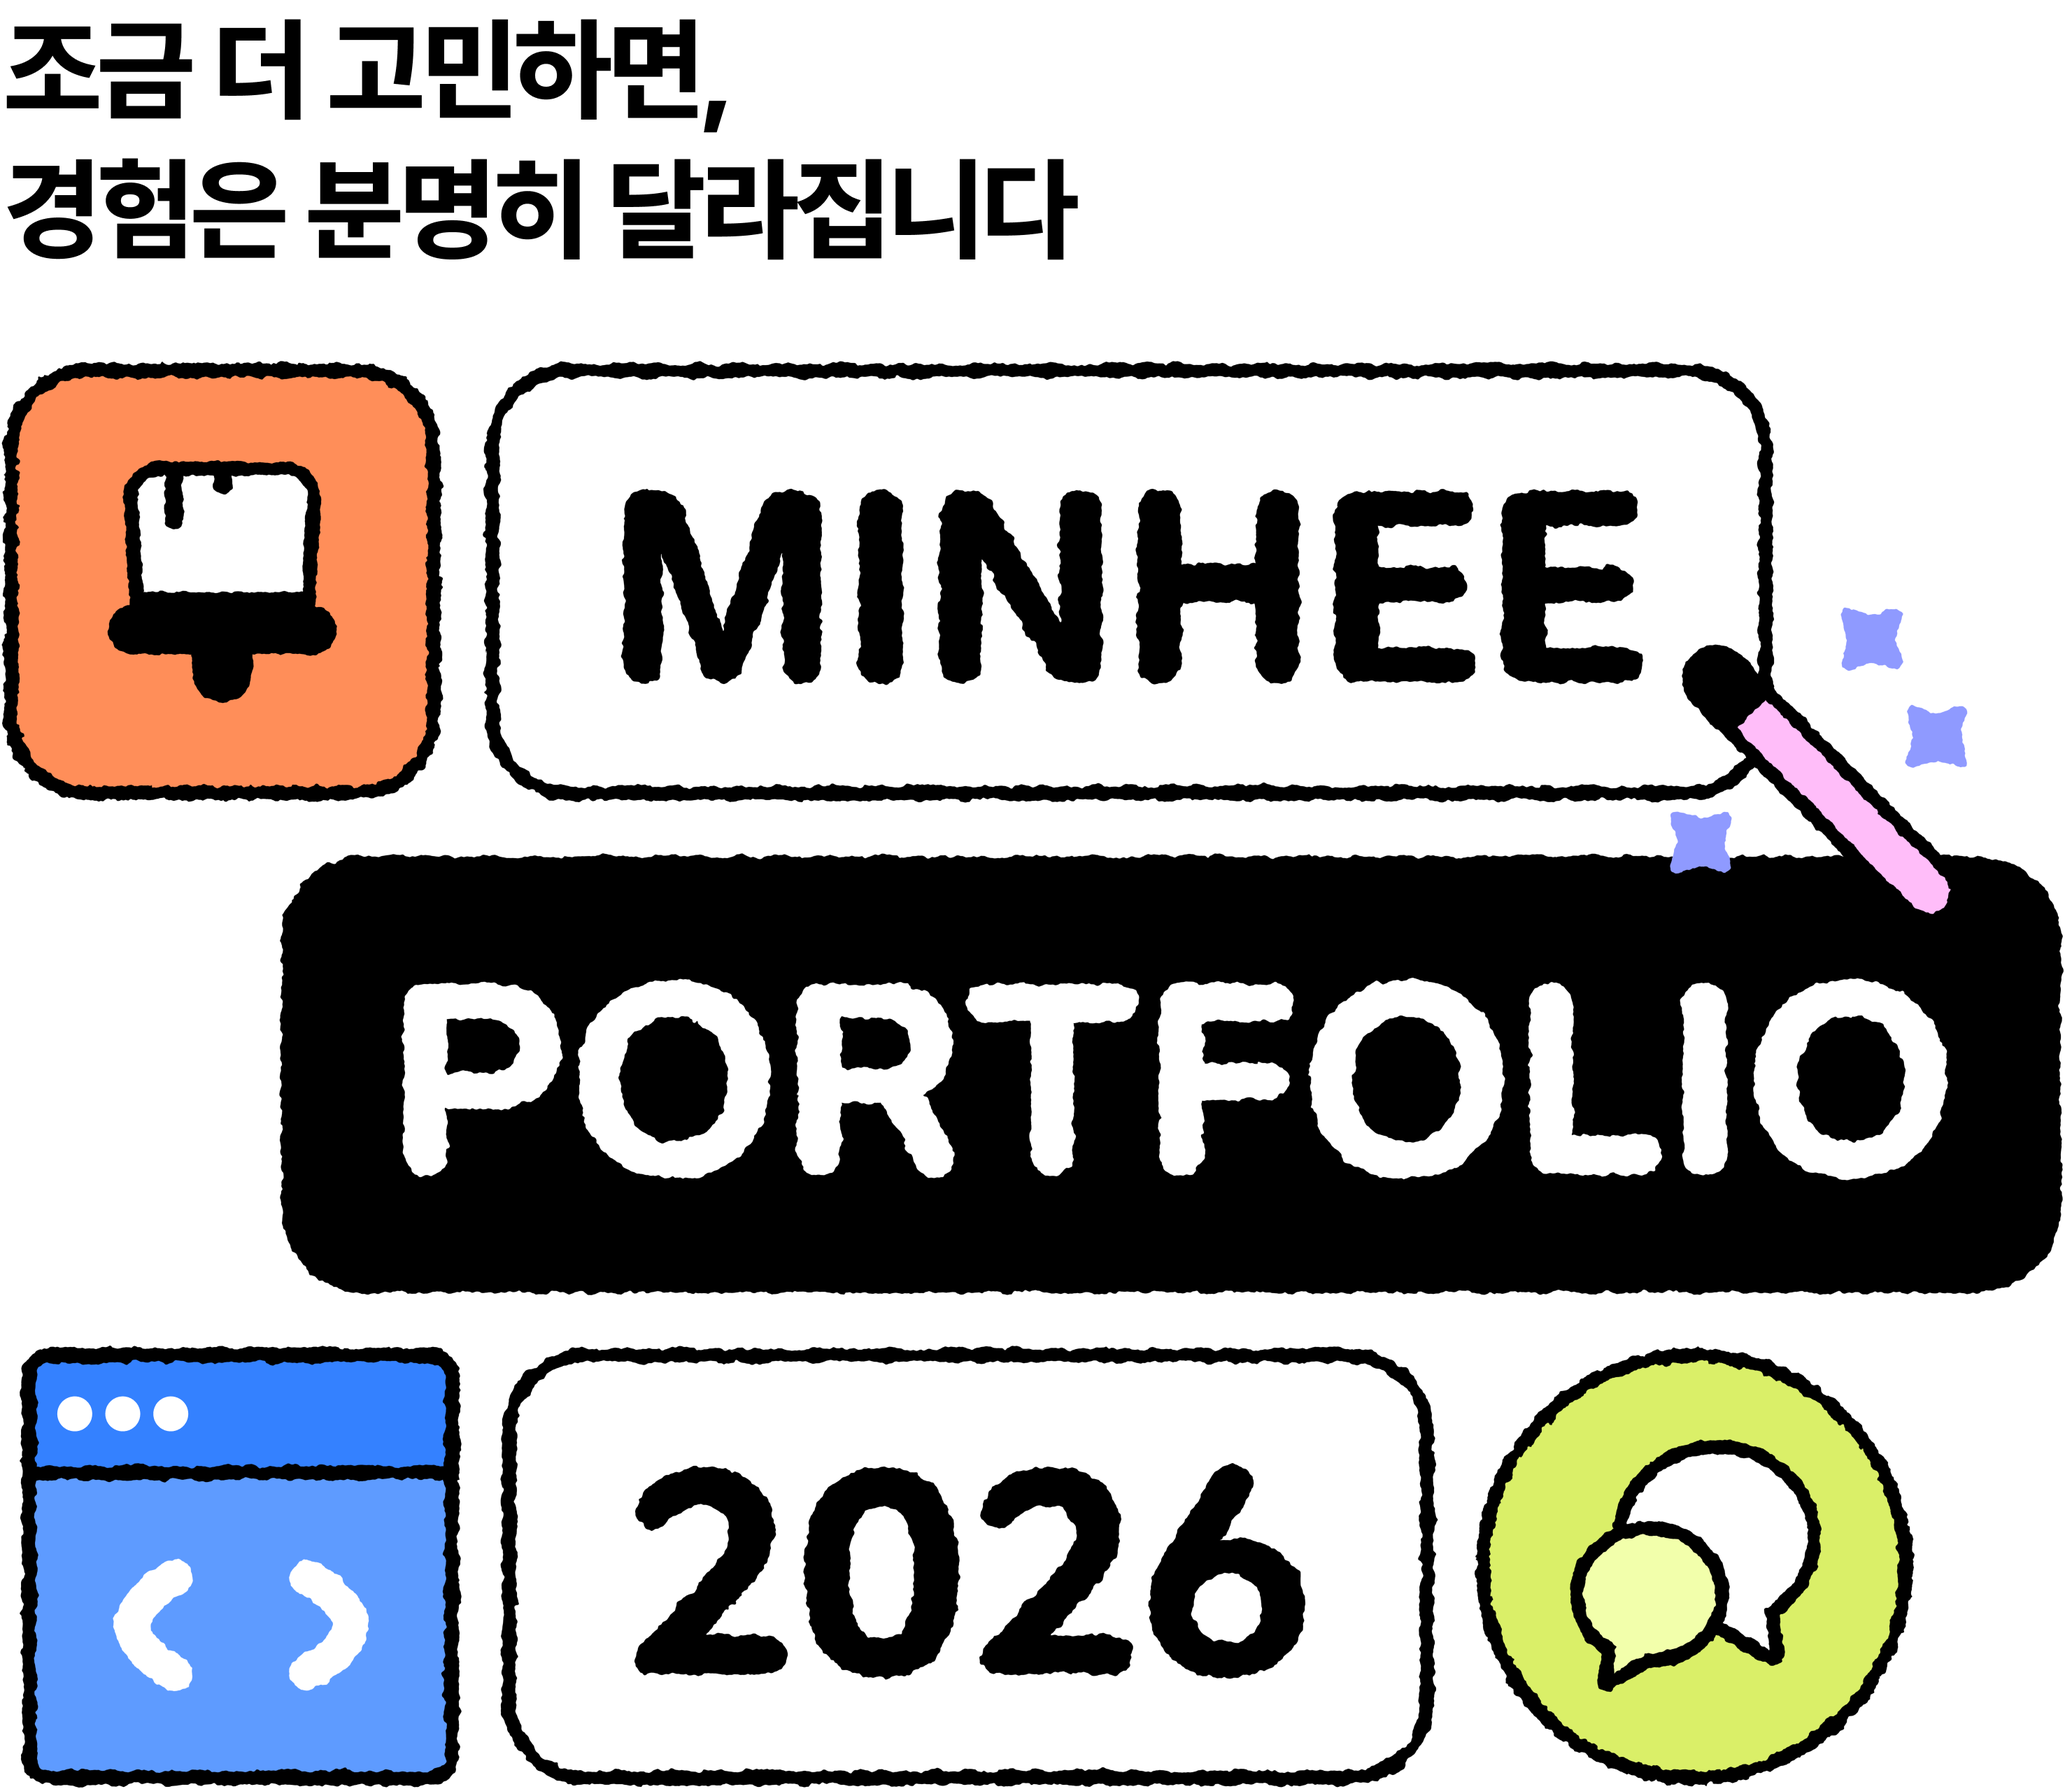
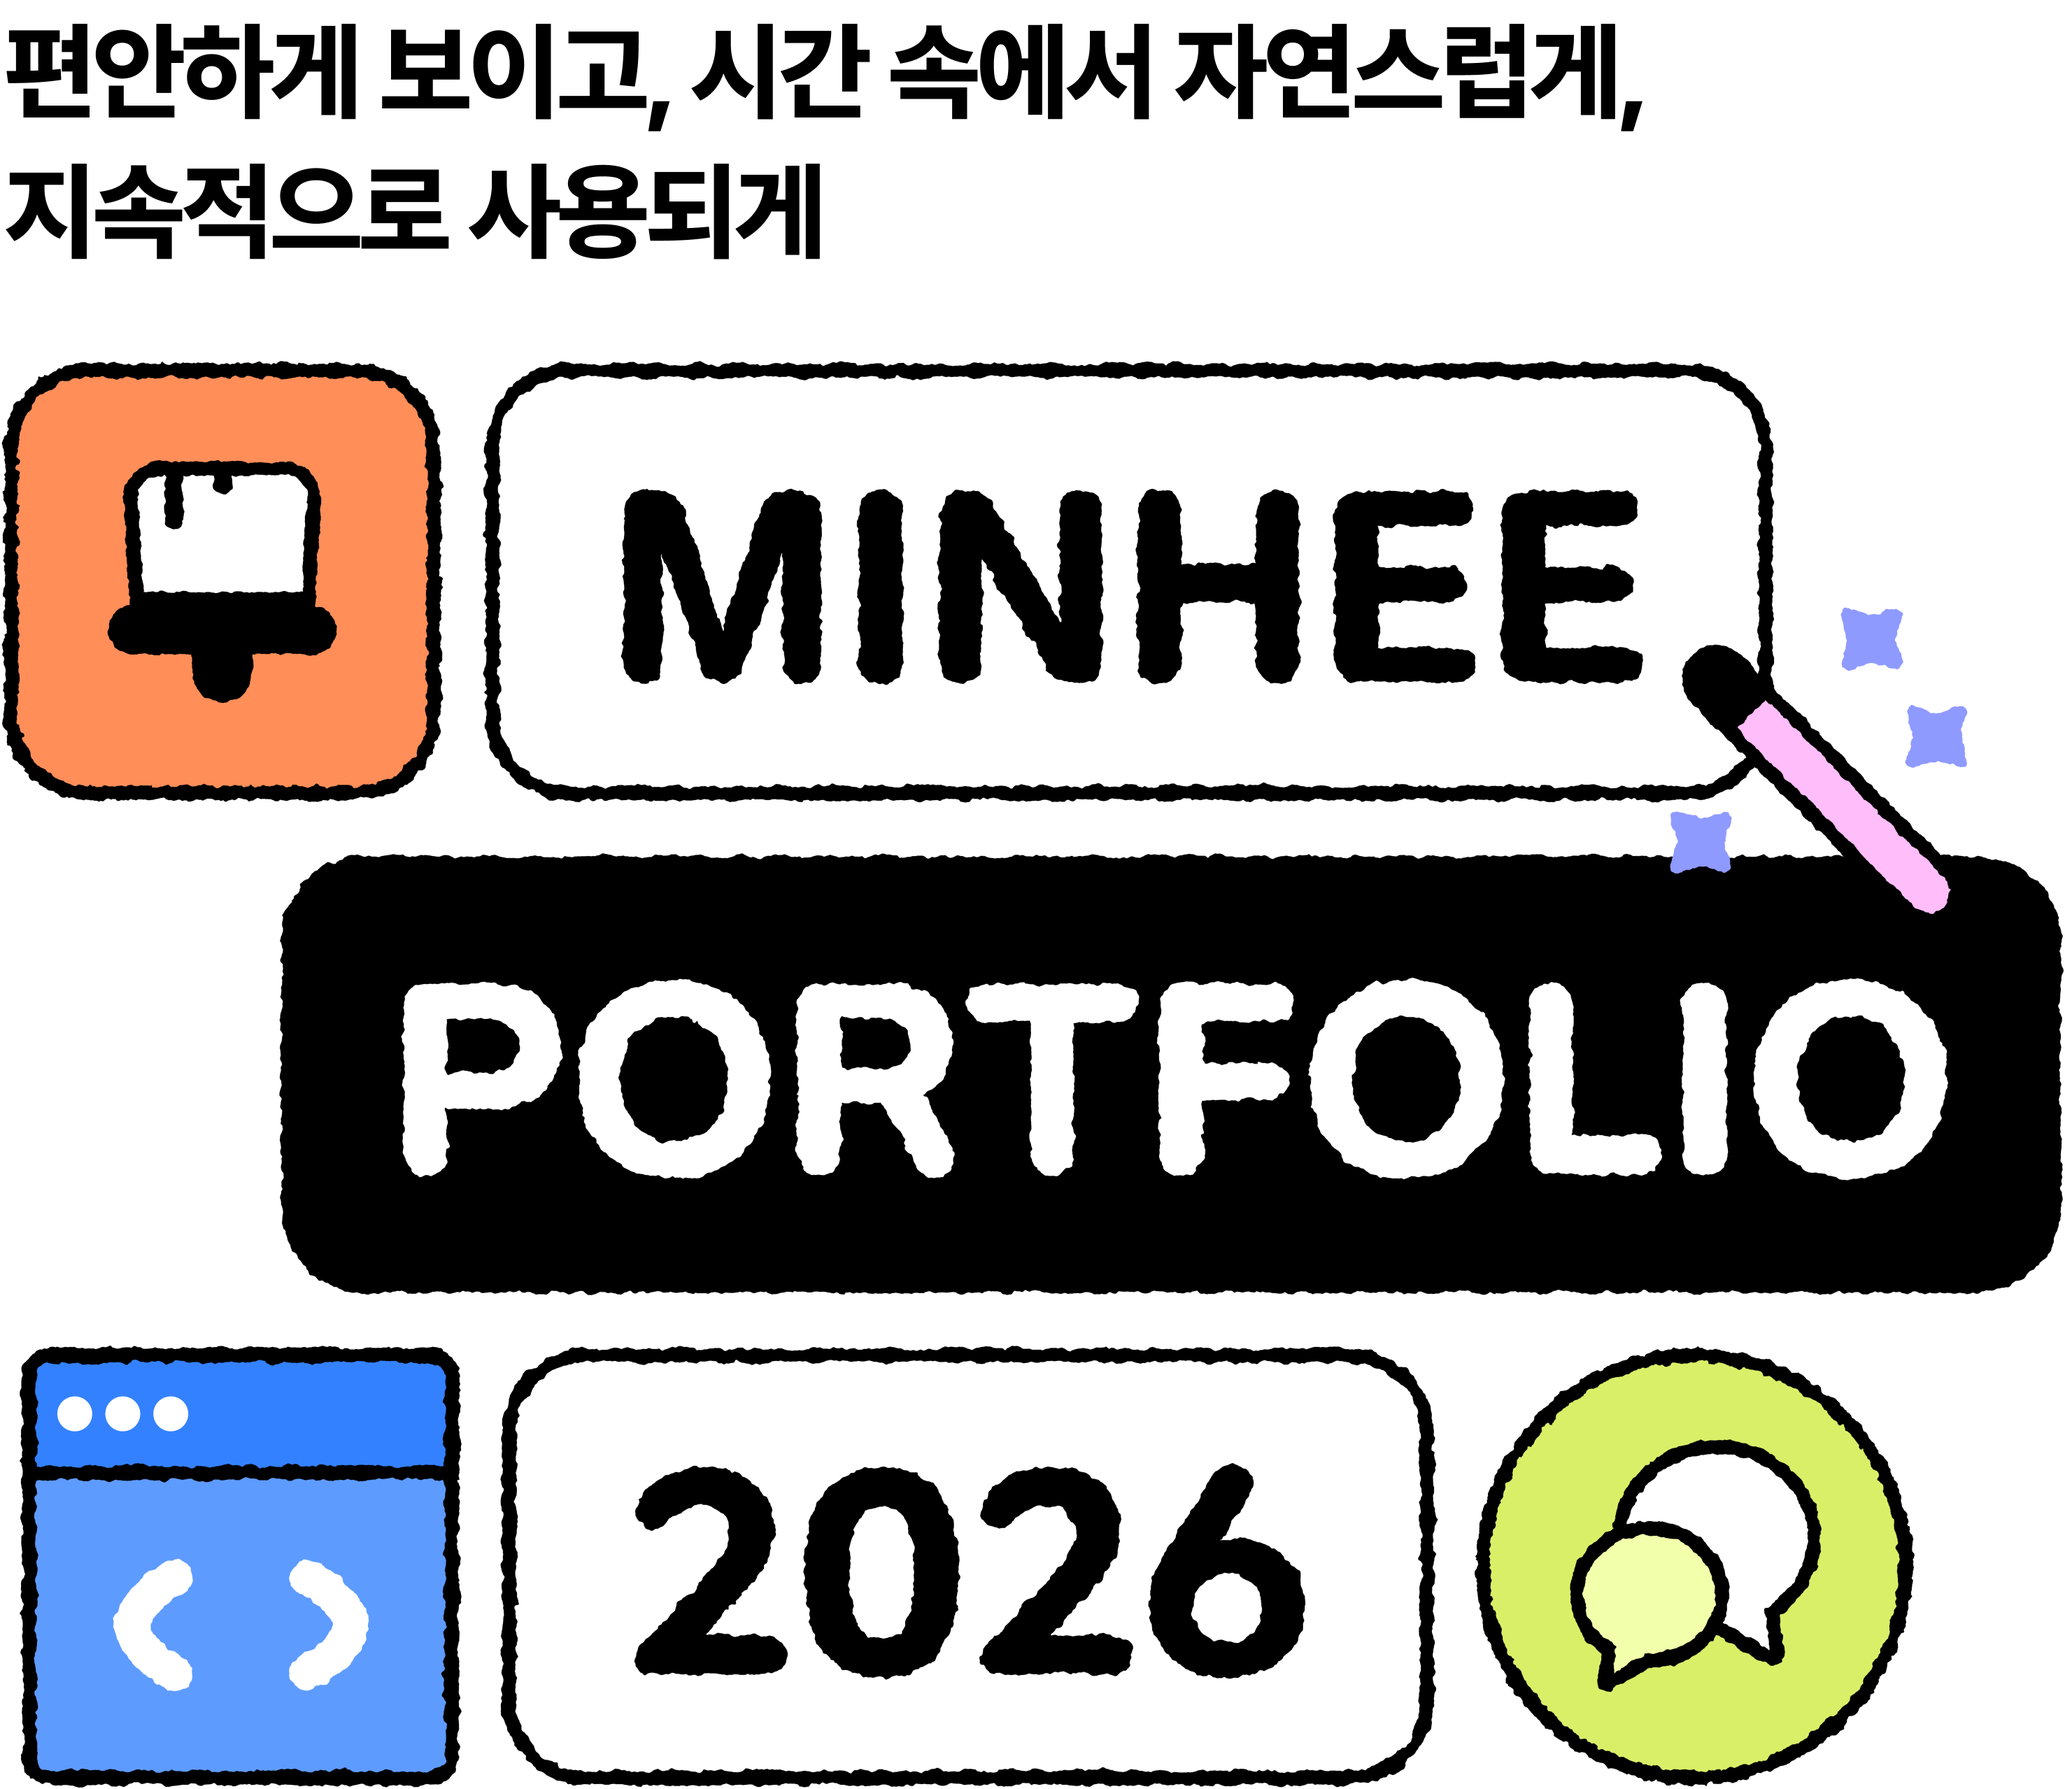
feat: About 섹션 텍스트·행간 수정, 키드키즈 안전교육 상세 추가
- about__intro-title, about__text 내용 변경
- about__text, EXPERIENCE/EDUCATION 행간 조정
- EXPERIENCE 담당 업무 내용 수정
- 키드키즈 안전교육 상세 페이지 추가 (히어로, 설명, 사이트 링크)

Made-with: Cursor

Changed region(s): [[0.0, 0.0, 0.8103, 0.1544]]

diff --git a/index.html b/index.html
@@ -363,17 +363,13 @@
             </h3>
             <div class="about__intro">
               <h4 class="about__intro-title">
-                기획 의도를 충분히 이해하고,<br />사용자 관점에서 의미 있는
-                포인트를 발견해 <br class="about__text-br" />디자인에
-                담아냅니다.
+                서비스 안에서 자연스럽게 자리 잡는 화면을 만듭니다
               </h4>
               <p class="about__text">
-                기획 의도를 이해한 뒤, 사용자 관점에서 다시 한 번 점검하며
-                작업해왔습니다.<br />
-                무엇이 먼저 보이고 어디에서 잠시 멈출지를 살피며, 구조 안에서
-                조금 더 편안해질 수 있는 요소를 더해왔습니다.<br />
-                앞으로도 구조와 표현의 균형 속에서, 편안하지만 분명하게 전달되는
-                디자인을 하고자 합니다.
+                서비스는 시간이 지나며 기능과 콘텐츠가 계속 쌓이기 때문에 처음부터 안정적인 구조를 갖춘 화면이 중요하다고 생각합니다.<br />
+                교육 플랫폼과 콘텐츠 서비스 프로젝트에서 디자인과 퍼블리싱을 함께 진행하며 실제 운영되는 서비스 화면을 구현해왔습니다.<br />
+                콘텐츠가 확장되어도 무리 없이 작동하고 시간이 지나도 자연스럽게 사용되는 인터페이스를 고민합니다.<br />
+                콘텐츠 흐름과 정보 구조를 정리하는 동시에, 시각적으로도 편안하게 느껴지는 화면을 만드는 것을 중요하게 생각합니다.
               </p>
             </div>
             <a href="#" class="about__resume-btn">
@@ -395,8 +391,8 @@
                     <strong>EK 주식회사 IT부서 디자인팀</strong></span
                   ><br />
                   <span class="about__experience-desc"
-                    >· 서비스 UI/UX 디자인 및 퍼블리싱 전반 담당<br />
-                    · 기획 의도에 맞춘 화면 구조 설계 및 인터랙션 구현</span
+                    >· 서비스 UI 디자인 및 퍼블리싱 담당<br />
+                    · 화면 구조 설계 및 인터페이스 구현</span
                   >
                 </p>
               </div>

diff --git a/js/projects-data.js b/js/projects-data.js
@@ -159,6 +159,19 @@ const PROJECTS_DATA = [
     categoryLabel: "UI · Publishing",
     name: "키드키즈 안전교육<br />페이지 UI/UX 리뉴얼",
     tags: "웹사이트, UI/UX, 반응형, 교육",
+    detail: {
+      heroBg: "images/projects/kidkids-safety-education/hero.png",
+      title: "키드키즈 안전교육 페이지 UI/UX 리뉴얼",
+      position: "UI 디자인 · 퍼블리싱",
+      contribution: "UI 디자인 100% · 퍼블리싱 100%",
+      tool: "Figma · Vue · Tailwind CSS · Cursor AI",
+      date: "2026 (1주 소요)",
+      description:
+        "<p><strong>유아 교육 플랫폼 키드키즈 안전교육 서비스의 UI 구조를 재설계한 리뉴얼 프로젝트입니다.</strong></p>" +
+        "<p>기존에 콘텐츠, 연간 교육 계획, 개인 관리 기능이 혼합되어 있던 구조를 사용 목적 기준으로 재정리하여 탐색 흐름을 개선했습니다.</p>" +
+        "<p>콘텐츠 카드와 영역별 분류 UI를 정리하고 UI 설계부터 퍼블리싱까지 담당하여 실제 서비스에 적용되었습니다.</p>",
+      ctaUrl: "https://www.kidkids.net/pani/pages/program/new-safety/content.html",
+    },
   },
   {
     thumb: "images/projects/kidkids-homepage-renewal/thumb.png",

diff --git a/css/styles.css b/css/styles.css
@@ -491,7 +491,7 @@ section {
 
 .about__text {
   font-size: var(--font-size-16);
-  line-height: var(--line-height-wide);
+  line-height: 1.85;
   margin-bottom: 0.75rem;
   color: #333;
 }
@@ -554,6 +554,7 @@ section {
 
 .about__detail-block p {
   padding-left: 0.75rem;
+  line-height: 1.9;
 }
 
 .about__experience-header {
@@ -1503,7 +1504,7 @@ section {
     margin-left: auto;
     margin-right: auto;
     max-width: 23rem;
-    line-height: 1.5;
+    line-height: 1.7;
   }
 
   .about__text-line {
@@ -1552,6 +1553,7 @@ section {
   .about__detail-block p {
     padding-left: 0;
     margin-top: 0.75rem;
+    line-height: 1.9;
   }
 
   .about__experience-header {
@@ -1847,7 +1849,7 @@ section {
     margin-left: auto;
     margin-right: auto;
     max-width: 20rem;
-    line-height: 1.5;
+    line-height: 1.7;
   }
 
   .about__text-line {
@@ -1900,6 +1902,7 @@ section {
   .about__detail-block p {
     padding-left: 0;
     margin-top: 0.75rem;
+    line-height: 1.9;
   }
 
   .about__experience-header {
